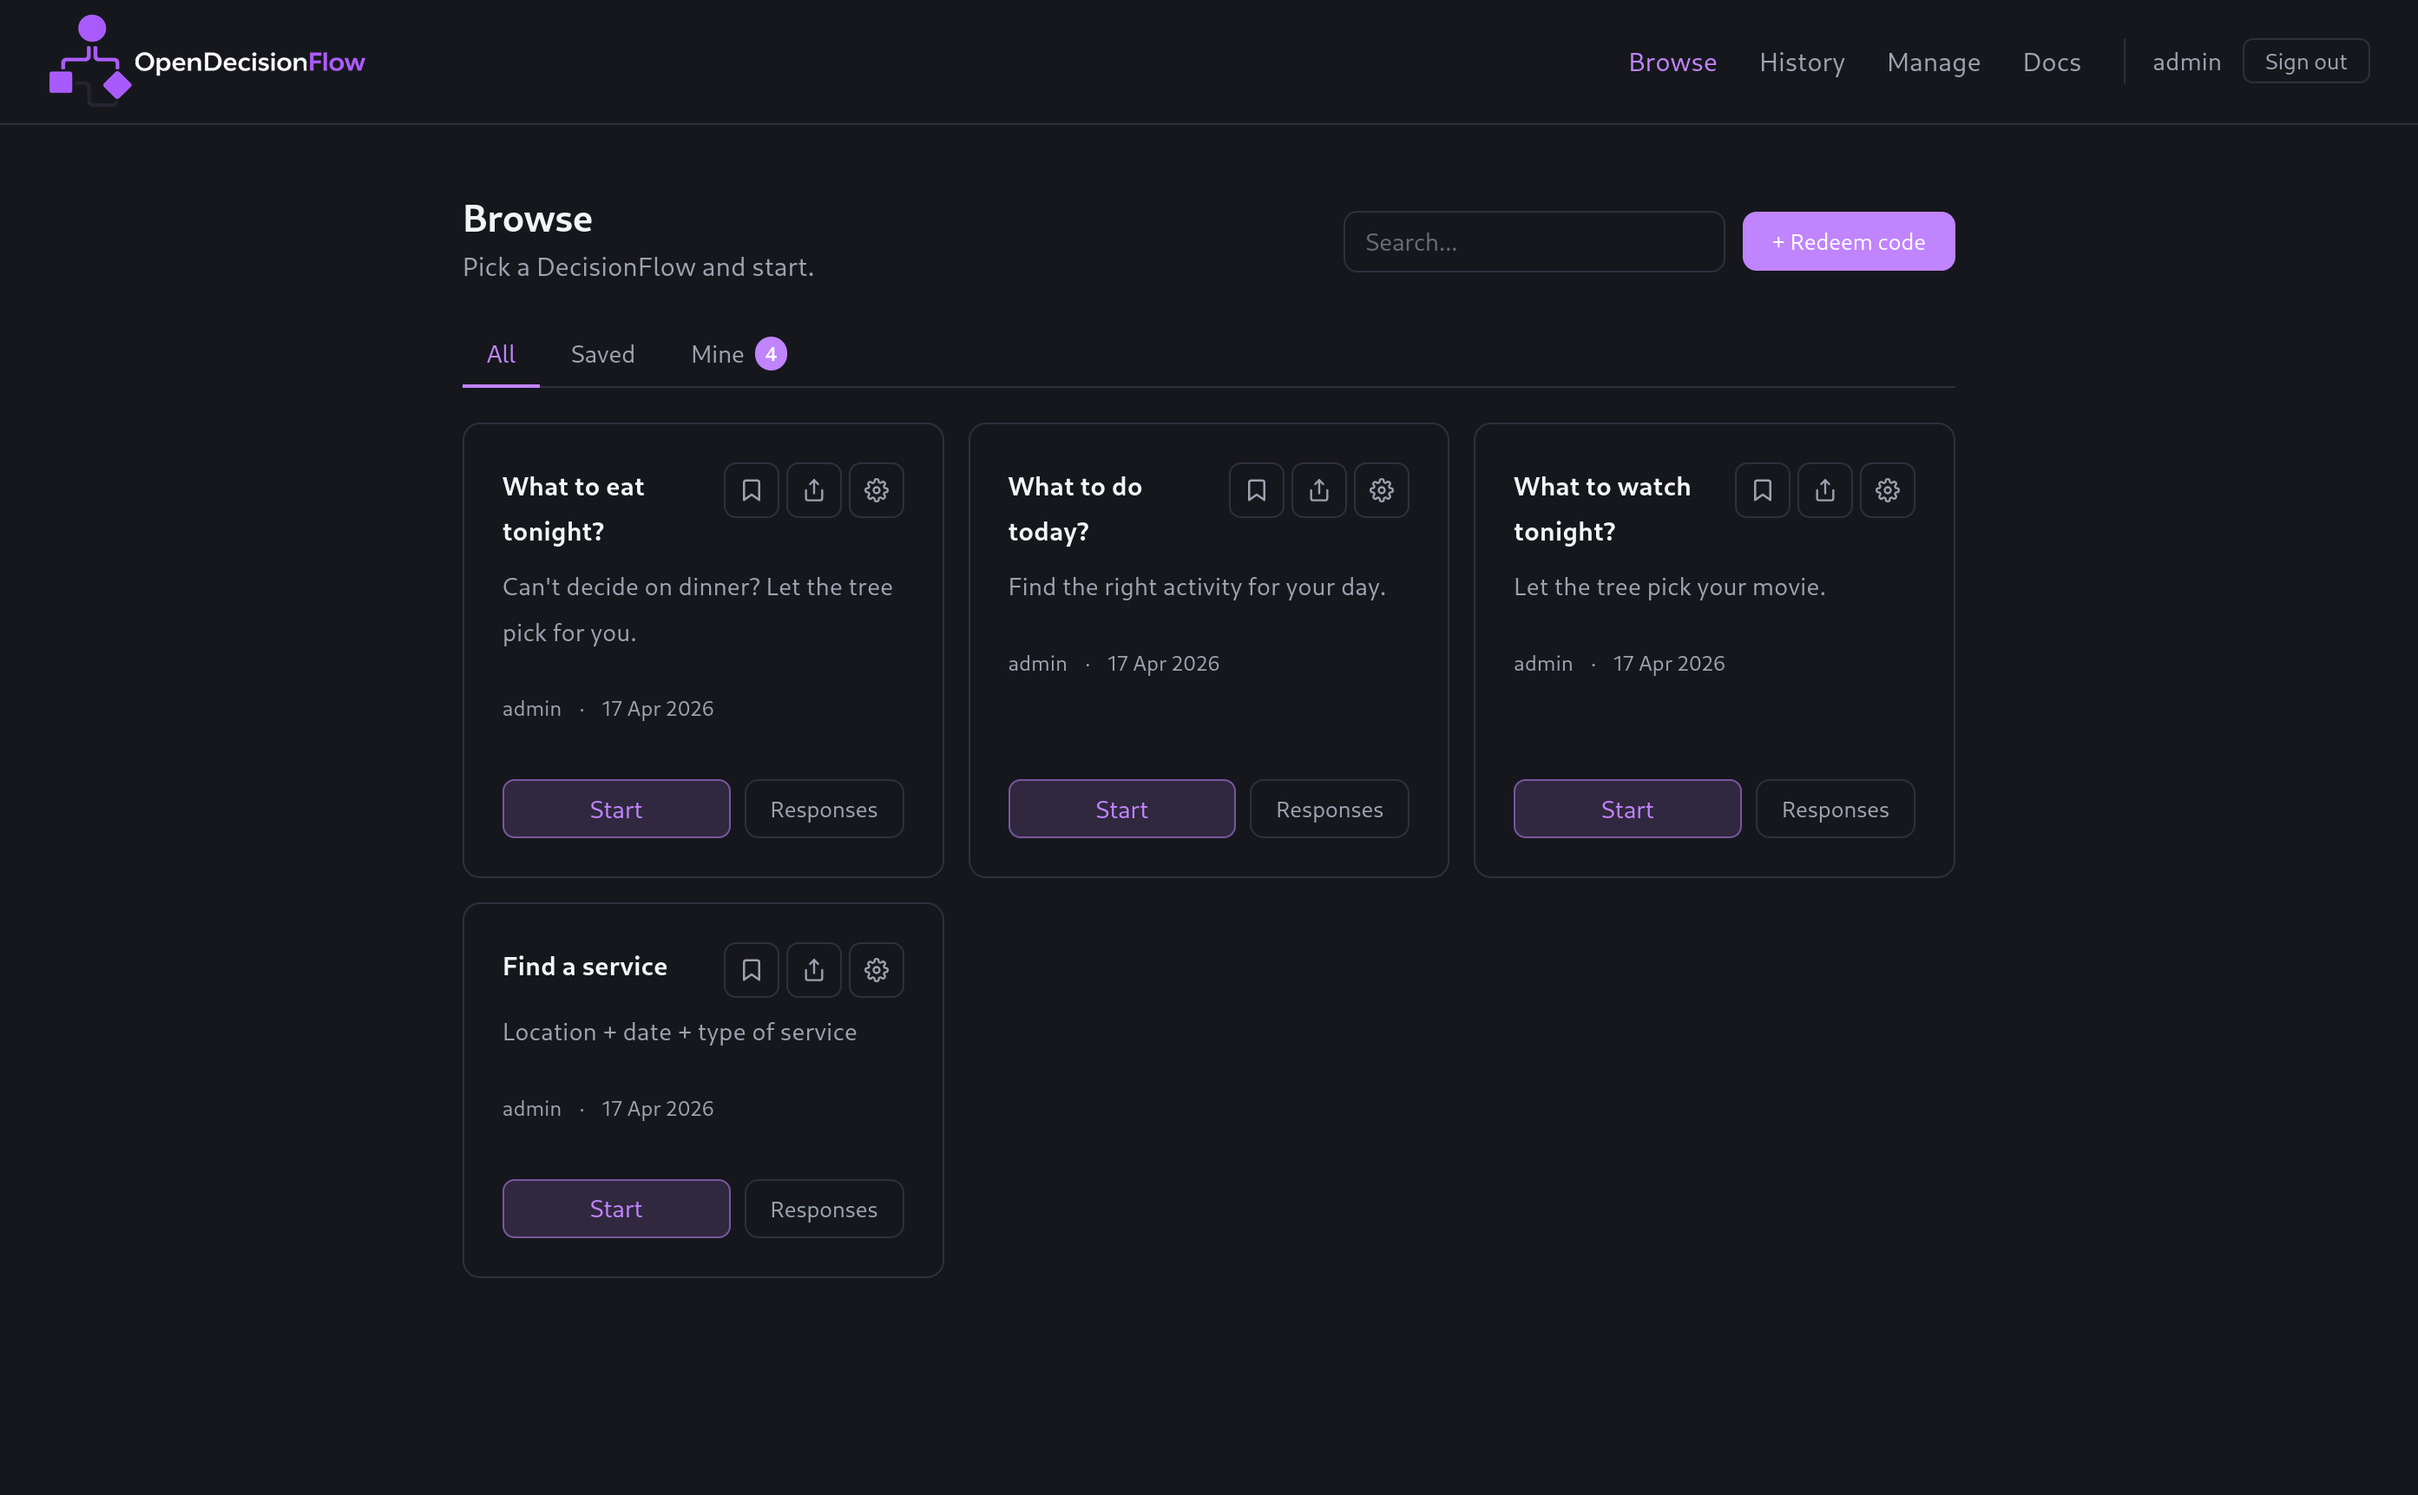
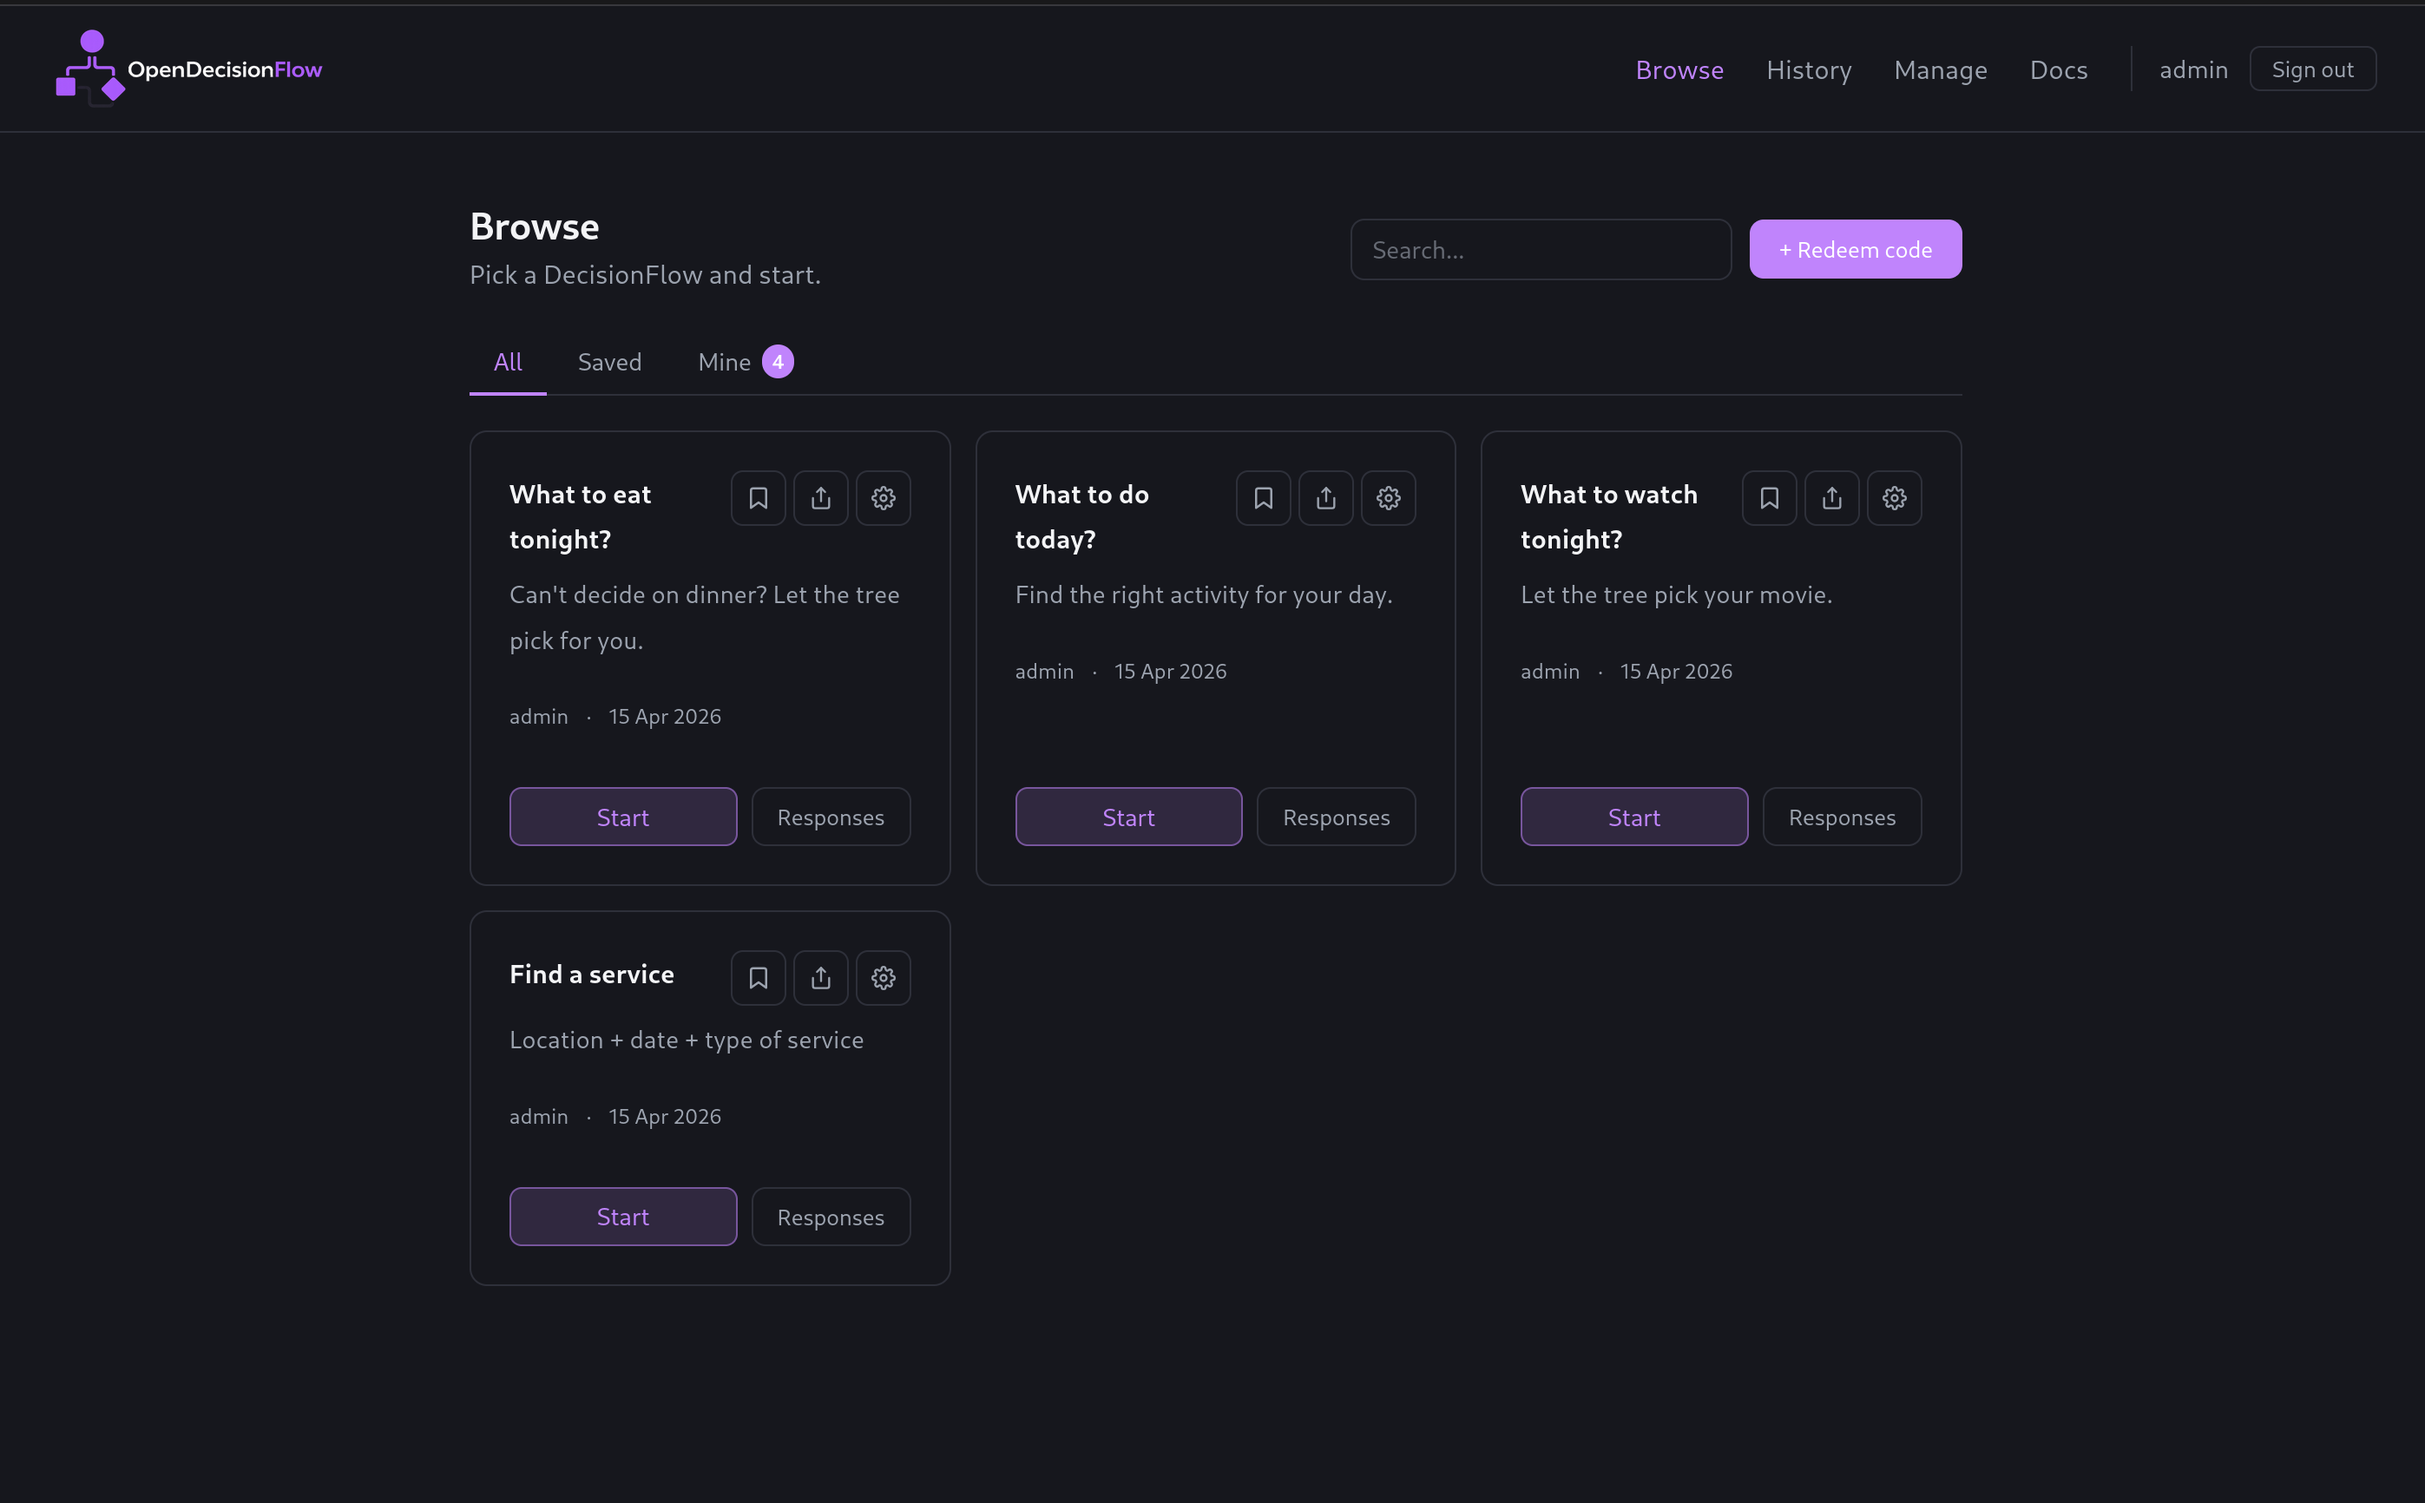
screenshots

diff --git a/frontend/src/App.css b/frontend/src/App.css
@@ -226,7 +226,7 @@
 }
 
 .navbar-logo {
-  height: 57px;
+  height: 48px;
   width: auto;
   display: block;
 }
@@ -1401,7 +1401,7 @@
   }
 
   .navbar-logo {
-    height: 46px;
+    height: 39px;
   }
 
   .navbar-links {
